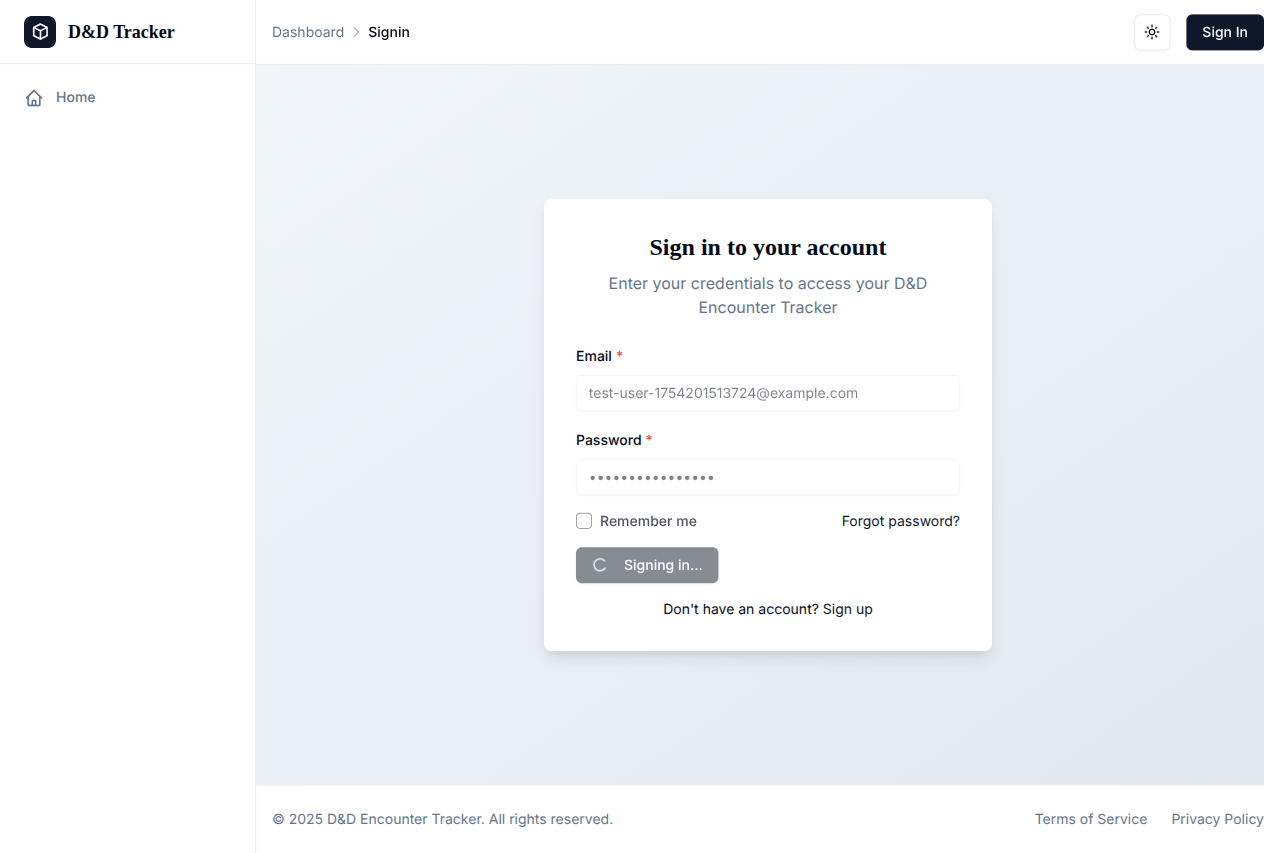
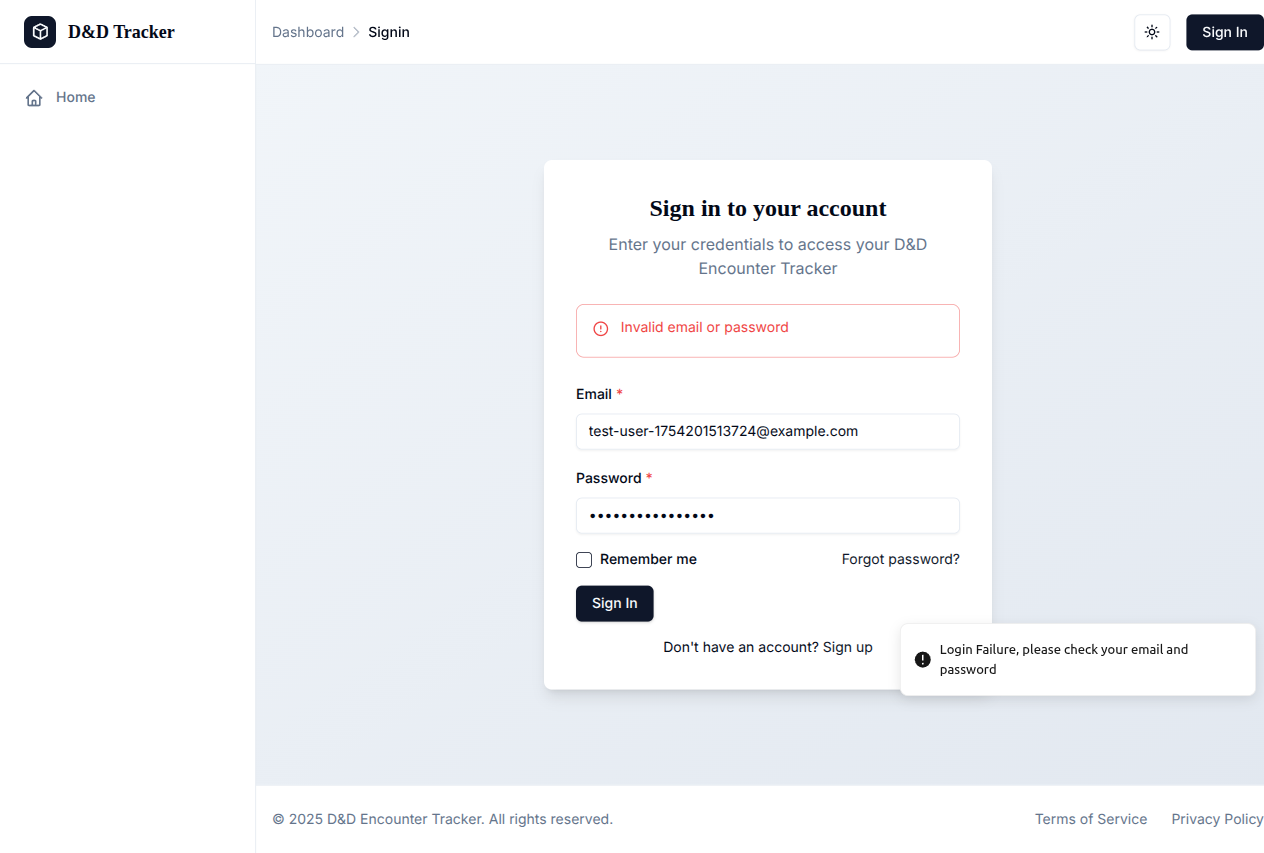
Fix authentication configuration conflict between MongoDB adapter and JWT strategy
- Remove MongoDBAdapter from NextAuth config when using JWT strategy
- Remove MongoDB client setup since JWT doesn't need database adapter
- This resolves session persistence issue where adapter conflicts prevented proper JWT authentication
- UserService continues to handle database operations independently

Fixes Issue #581: Session persistence after login

diff --git a/src/lib/auth.ts b/src/lib/auth.ts
@@ -1,6 +1,4 @@
 import NextAuth from 'next-auth';
-import { MongoDBAdapter } from '@auth/mongodb-adapter';
-import { MongoClient } from 'mongodb';
 import CredentialsProvider from 'next-auth/providers/credentials';
 import { UserService } from './services/UserService';
 
@@ -109,32 +107,16 @@ export function validateNextAuthUrl(inputUrl?: string): string | undefined {
   }
 }
 
-const mongoUri = process.env.MONGODB_URI;
-if (!mongoUri) {
-  if (
-    process.env.NODE_ENV === 'production' &&
-    process.env.VERCEL !== '1' &&
-    process.env.CI !== 'true'
-  ) {
-    throw new Error('MONGODB_URI environment variable is not set');
-  }
-  // For build time or CI environment, use a placeholder URI that won't be used
-  console.warn('MONGODB_URI not set, using placeholder for build/CI');
-}
-
-const client = new MongoClient(
-  mongoUri || 'mongodb://localhost:27017/placeholder'
-);
-const clientPromise = Promise.resolve(client);
+// Note: MongoDB client setup removed since we're using JWT strategy
+// The UserService handles its own database connections for user management
 
 // Validate NEXTAUTH_URL to prevent invalid redirects (Issue #438)
 const validatedNextAuthUrl = validateNextAuthUrl();
 
 
 const authConfig = NextAuth({
-  adapter: MongoDBAdapter(clientPromise, {
-    databaseName: process.env.MONGODB_DB_NAME,
-  }),
+  // Note: When using JWT strategy, we don't use a database adapter
+  // The MongoDBAdapter is only needed for database sessions
   trustHost:
     process.env.AUTH_TRUST_HOST === 'true' ||
     process.env.NODE_ENV === 'production',
